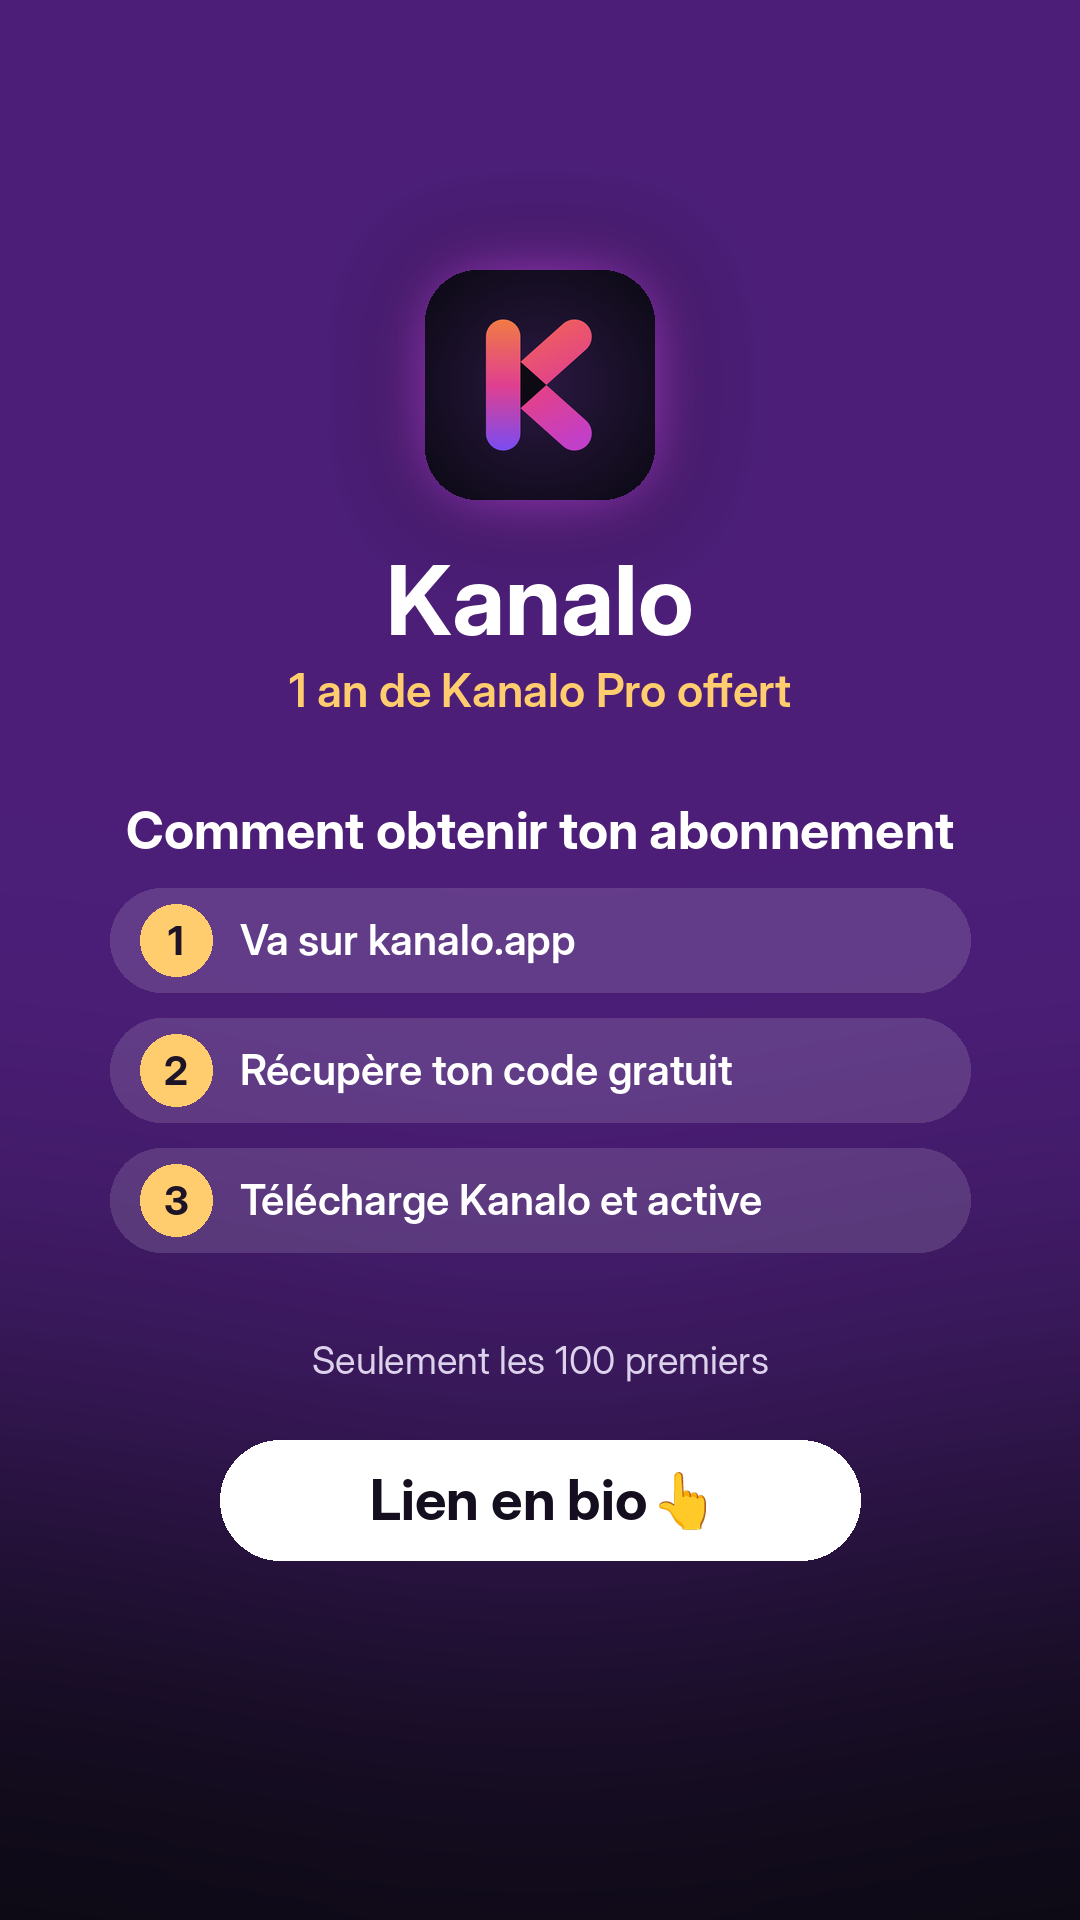
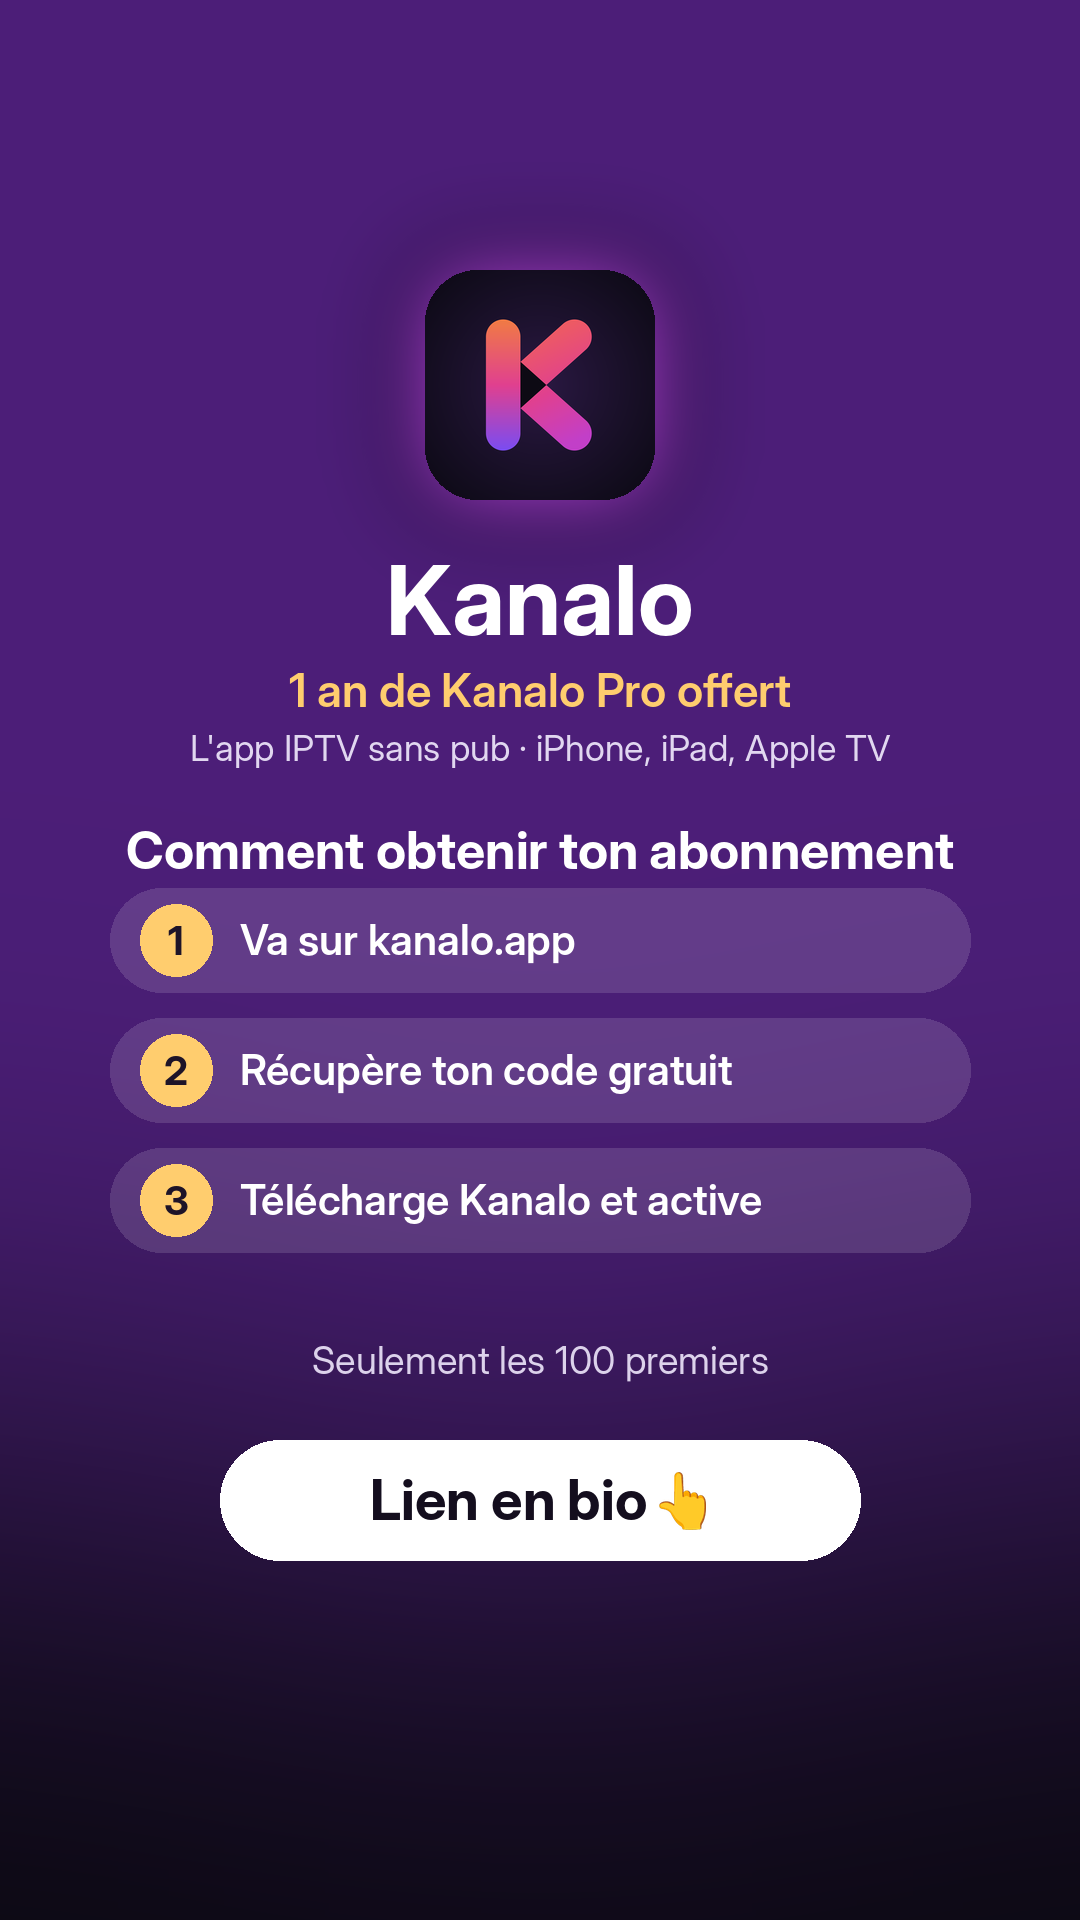
FR end card: say what Kanalo is
Claude-Session: https://claude.ai/code/session_01Nfw8GqVW5u5Dp8ws2maeUt

Changed region(s): [[0.1222, 0.375, 0.8861, 0.4688]]

diff --git a/pass_end.py b/pass_end.py
@@ -13,6 +13,7 @@ T = {
 }
 
 SUB = {"fr": "1 an de Kanalo Pro offert"}
+DESC = {"fr": "L'app IPTV sans pub · iPhone, iPad, Apple TV"}
 
 def card(lang):
     title, steps, note, cta = T[lang]
@@ -26,7 +27,9 @@ def card(lang):
     img.paste(lg, ((W - s) // 2, 270), m)
     d.text((W / 2, 600), "Kanalo", font=kv.F(96, "Bold"), fill="white", anchor="mm")
     d.text((W / 2, 690), SUB.get(lang, "Lifetime Pro Pass"), font=kv.F(46, "SemiBold"), fill=(255, 205, 110), anchor="mm")
-    d.text((W / 2, 830), title, font=kv.F(52, "Bold"), fill="white", anchor="mm")
+    if lang in DESC:
+        d.text((W / 2, 748), DESC[lang], font=kv.F(36, "Regular"), fill=(225, 215, 240), anchor="mm")
+    d.text((W / 2, 850), title, font=kv.F(52, "Bold"), fill="white", anchor="mm")
     for i, st in enumerate(steps):
         y = 940 + i * 130
         ov = Image.new("RGBA", (W, H), (0, 0, 0, 0)); ImageDraw.Draw(ov).rounded_rectangle([110, y - 52, W - 110, y + 52], 52, fill=(255, 255, 255, 34))
